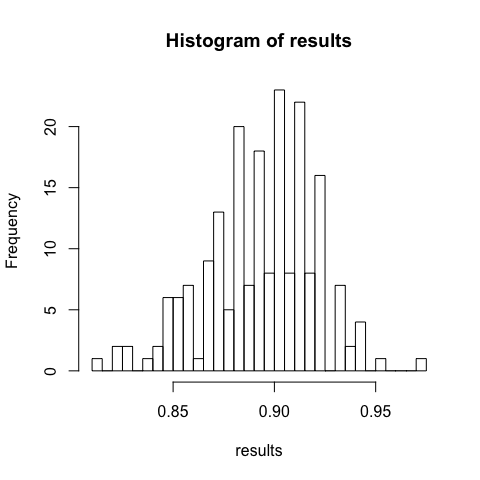
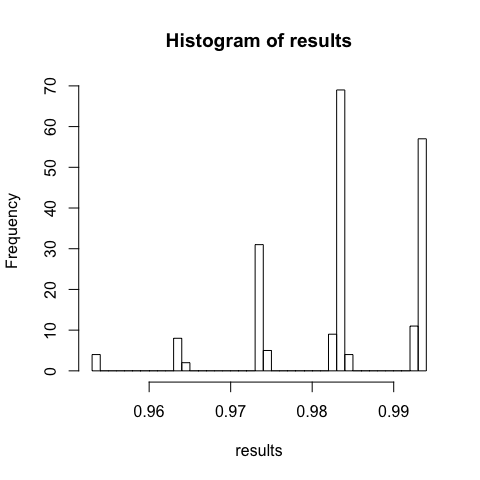
small updates

diff --git a/CommentedCode/04-StandardModels/Distributions/Binomial_Prior.md b/CommentedCode/04-StandardModels/Distributions/Binomial_Prior.md
@@ -11,7 +11,7 @@ knitr::opts_chunk$set(fig.width=5, fig.height=5)
 ```r
 set.seed(123) # just for reproducability of the results. 
 
-observation <- 0.9 # seed predation probability
+observation <- 0.99 # seed predation probability
 N <- 100        # number of seeds per seed tray
 replicates <- 200 
 
@@ -78,7 +78,7 @@ mean(results)
 ```
 
 ```
-## [1] 0.8938165
+## [1] 0.9833818
 ```
 
 We see the results are biased towards intermediate (0.5) values. 
@@ -141,7 +141,7 @@ mean(results)
 ```
 
 ```
-## [1] 0.898637
+## [1] 0.9882096
 ```
 
 ## Maximum likelihood
@@ -155,7 +155,7 @@ mean(dat1/N)
 ```
 
 ```
-## [1] 0.8991
+## [1] 0.99
 ```
 
 You see it's unbiased, which can be seen also mathematically.

diff --git a/CommentedCode/04-StandardModels/GLMM/Beetles.md b/CommentedCode/04-StandardModels/GLMM/Beetles.md
@@ -5,6 +5,9 @@ Florian Hartig
 
 ```
 ## Loading required package: rjags
+```
+
+```
 ## Loading required package: coda
 ```
 
@@ -14,13 +17,25 @@ Florian Hartig
 
 ```
 ## Linked to JAGS 3.4.0
+```
+
+```
 ## Loaded modules: basemod,bugs
+```
+
+```
 ## 
 ## Attaching package: 'R2jags'
-## 
+```
+
+```
 ## The following object is masked from 'package:coda':
 ## 
 ##     traceplot
+```
+
+```
+## Warning: package 'runjags' was built under R version 3.1.3
 ```
 
 
